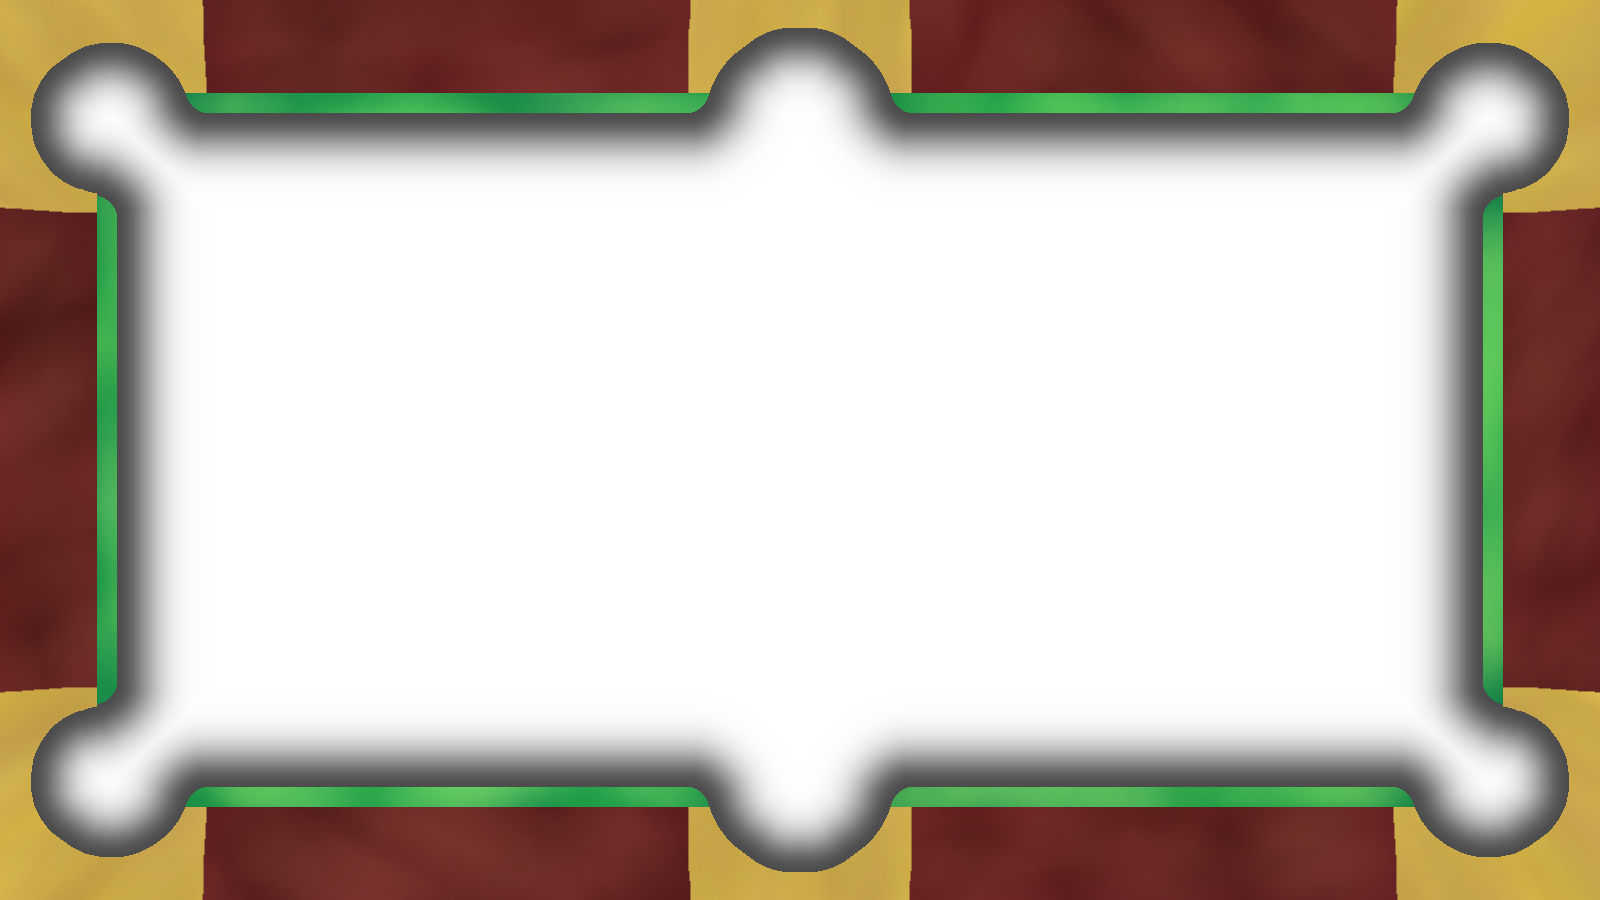
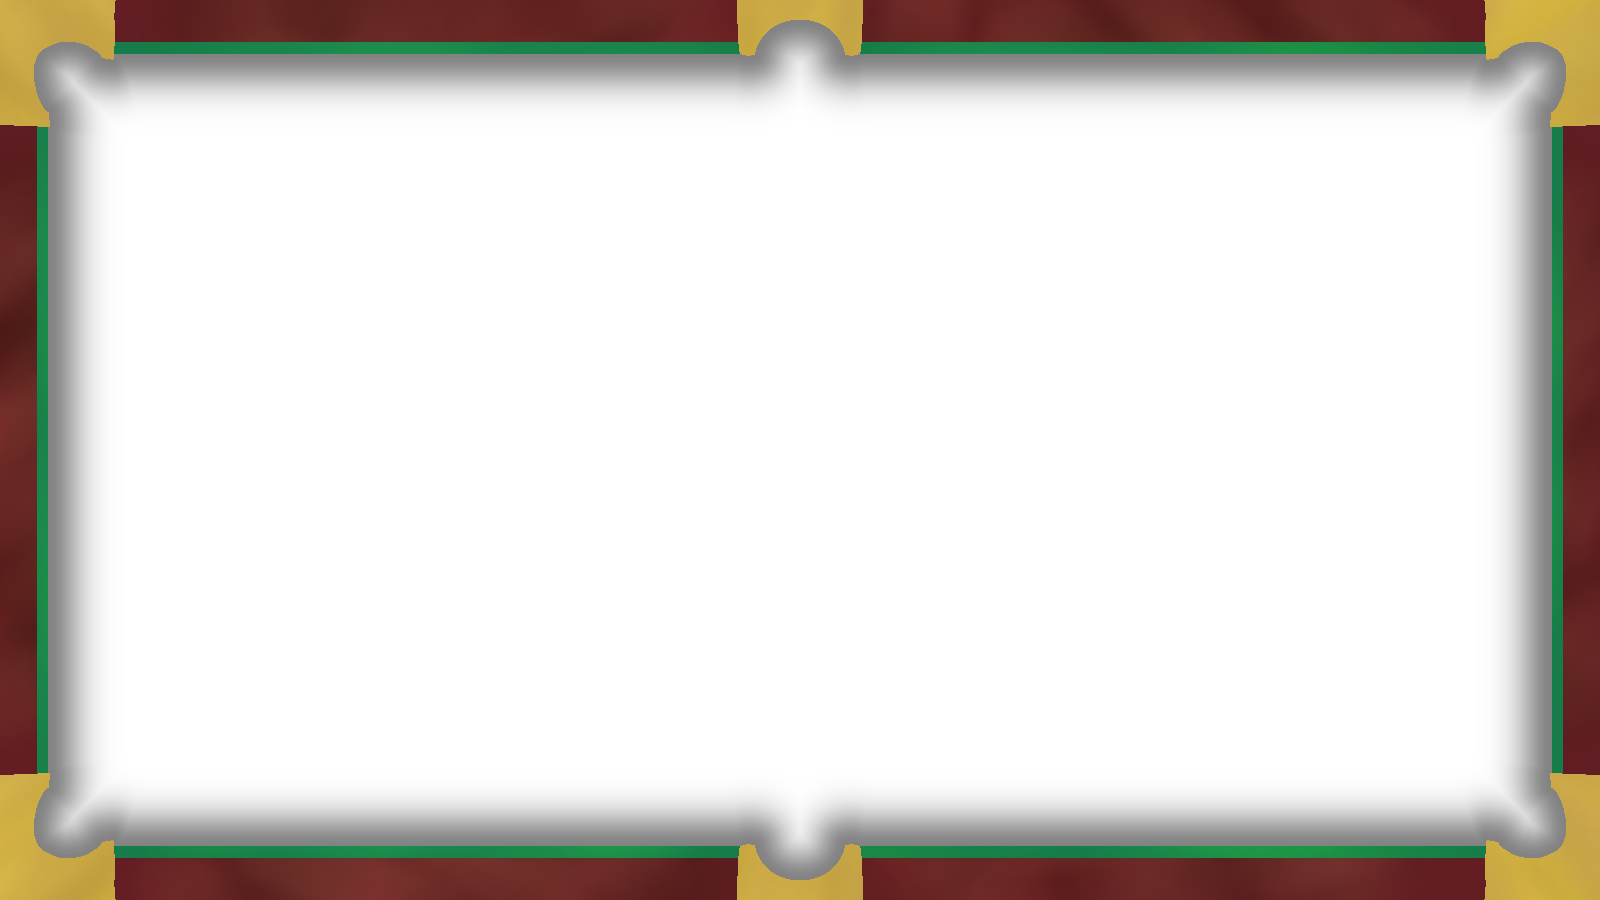
added sounds for hitting balls and walls

diff --git a/main.cpp b/main.cpp
@@ -1,6 +1,7 @@
 #include <iostream>
 #include <SFML/Window.hpp>
 #include <SFML/Graphics.hpp>
+#include <SFML/Audio.hpp>
 #include <cstdio>
 #include <cmath>
 #include <algorithm>
@@ -12,6 +13,24 @@ struct GameStats
     int punktyGlobalnie = 0;
     int monety = 0;
 }g_Stats;
+
+struct AudioManager
+{
+    sf::SoundBuffer wallhitBuffer;
+    sf::SoundBuffer ballhitBuffer;
+
+
+    void init()
+    {
+        // Importowanie sfx:
+        if (!wallhitBuffer.loadFromFile("assets//sound_wall.wav")) {
+            std::cout << "Blad: Nie znaleziono assets/sound_wall.wav!" << std::endl;
+        }
+        if (!ballhitBuffer.loadFromFile("assets//sound_ball.wav")) {
+            std::cout << "Blad: Nie znaleziono assets/sound_ball.wav!" << std::endl;
+        }
+    }
+}g_Audio;
 
 void RysujLinie(sf::RenderTexture& target, sf::Vector2f punktA, sf::Vector2f punktB, float grubosc, sf::Color kolor)
 {
@@ -74,19 +93,19 @@ sf::Vector2f normal(sf::Vector2f V)
     return V;
 }
 
-void ZaladujTekstureTla(sf::Texture& tlo_stolu) // Przyjmuje referencję, nic nie kopiuje
+void ZaladujTekstureTla(sf::Texture& tlo_stolu)
 {
     if (!tlo_stolu.loadFromFile("assets//stol_tlo.png")) {
         std::cout << "Blad: Nie znaleziono pliku stol_tlo.png!" << std::endl;
     }
-    tlo_stolu.setSmooth(false); // Tutaj ustawione zadziała, bo obiekt nie zostanie skopiowany
+    tlo_stolu.setSmooth(false);
 }
-void ZaladujTekstureScian(sf::Texture& sciany_stolu) // Przyjmuje referencję, nic nie kopiuje
+void ZaladujTekstureScian(sf::Texture& sciany_stolu)
 {
     if (!sciany_stolu.loadFromFile("assets//stol_sciany.png")) {
         std::cout << "Blad: Nie znaleziono pliku stol_sciany.png!" << std::endl;
     }
-    sciany_stolu.setSmooth(false); // Tutaj ustawione zadziała, bo obiekt nie zostanie skopiowany
+    sciany_stolu.setSmooth(false);
 }
 
 
@@ -126,6 +145,10 @@ public:
     sf::Vector2f velocity;
     int rotation;
     sf::IntRect bounds;
+
+    sf::Sound wallhitSFX;
+    sf::Sound ballhitSFX;
+
     BilardBall(float radius, const sf::Vector2f& position):
         sf::CircleShape(radius),
         velocity(sf::Vector2f(0,0)),
@@ -141,6 +164,11 @@ public:
         radiusMultipl = 1;
         punktyNaUderzeniuKuli = 0;
         punktyNaUderzeniuSciany = 0;
+
+        wallhitSFX.setBuffer(g_Audio.wallhitBuffer);
+        wallhitSFX.setVolume(20.f);
+        ballhitSFX.setBuffer(g_Audio.ballhitBuffer);
+        ballhitSFX.setVolume(15.f);
     }
 
     void rob_tarcie(float sila, bool sciana)
@@ -216,6 +244,7 @@ public:
                 {
                     g_Stats.punktyTejRundy += punktyNaUderzeniuKuli;
                     bal.saveBounces.emplace_back(this->identifier);
+                    this->ballhitSFX.play();
                     sf::Vector2f D = this->getPosition() - bal.getPosition();
                     float d = diff(D);
                     float delt = this->getRadius() + bal.getRadius() - d;
@@ -240,6 +269,7 @@ public:
         // Sprawdzenie kolizji ścian
         if(this->getPosition().x + this->getRadius() > 620)
         {
+            this->wallhitSFX.play();
             g_Stats.punktyTejRundy += punktyNaUderzeniuSciany;
             this->setVelocity(sf::Vector2f(-1*this->velocity.x, this->velocity.y));
             this->move(sf::Vector2f(620.f - this->getPosition().x - this->getRadius() - 2, 0));
@@ -247,6 +277,7 @@ public:
         }
         if(this->getPosition().x - this->getRadius() < 20)
         {
+            this->wallhitSFX.play();
             g_Stats.punktyTejRundy += punktyNaUderzeniuSciany;
             this->setVelocity(sf::Vector2f(-1*this->velocity.x, this->velocity.y));
             this->move(sf::Vector2f(20.f - this->getPosition().x + this->getRadius() + 2, 0));
@@ -254,6 +285,7 @@ public:
         }
         if(this->getPosition().y + this->getRadius() > 334)
         {
+            this->wallhitSFX.play();
             g_Stats.punktyTejRundy += punktyNaUderzeniuSciany;
             this->setVelocity(sf::Vector2f(this->velocity.x, -1*this->velocity.y));
             this->move(sf::Vector2f(0, 334.f - this->getPosition().y - this->getRadius() - 2));
@@ -261,6 +293,7 @@ public:
         }
         if(this->getPosition().y - this->getRadius() < 24)
         {
+            this->wallhitSFX.play();
             g_Stats.punktyTejRundy += punktyNaUderzeniuSciany;
             this->setVelocity(sf::Vector2f(this->velocity.x, -1*this->velocity.y));
             this->move(sf::Vector2f(0, 24.f - this->getPosition().y + this->getRadius() + 2));
@@ -333,6 +366,9 @@ int main()
     ZaladujTekstureScian(sciany_stol);
     sf::Sprite sciany;
     sciany.setTexture(sciany_stol);
+
+    // Dzwieki
+    g_Audio.init();
 
     // Skalowanie tla na cały ekran:
     float scaleXtlo = (float)virtualScreen.getSize().x / tlo_stolu.getSize().x;